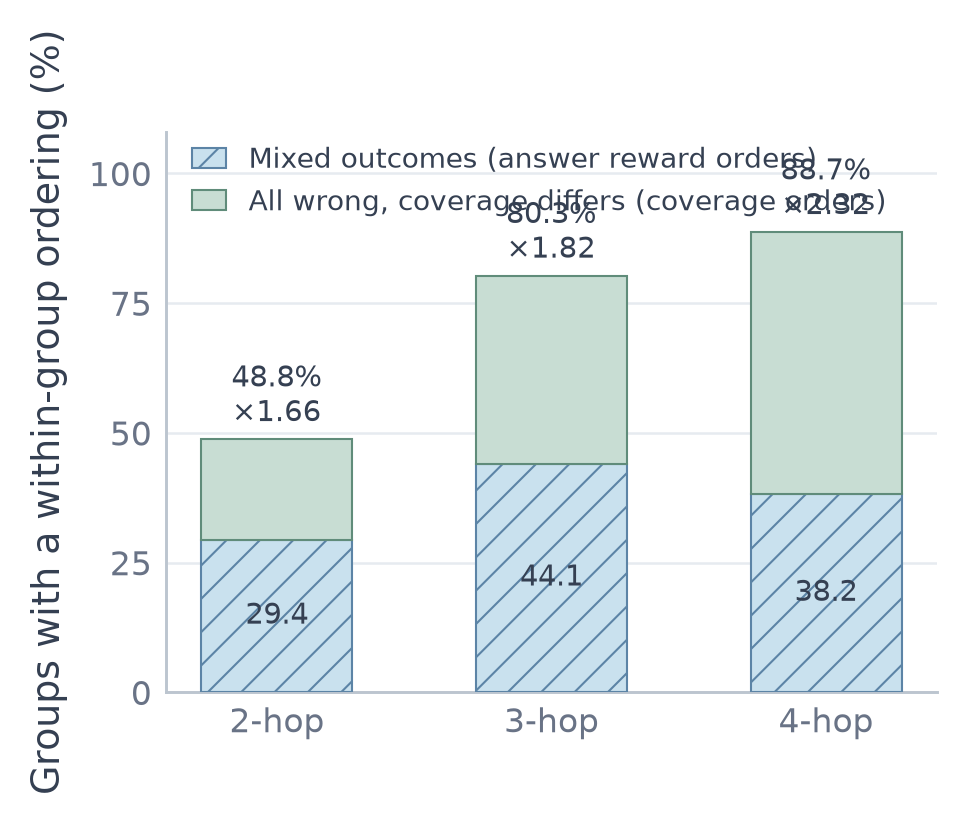
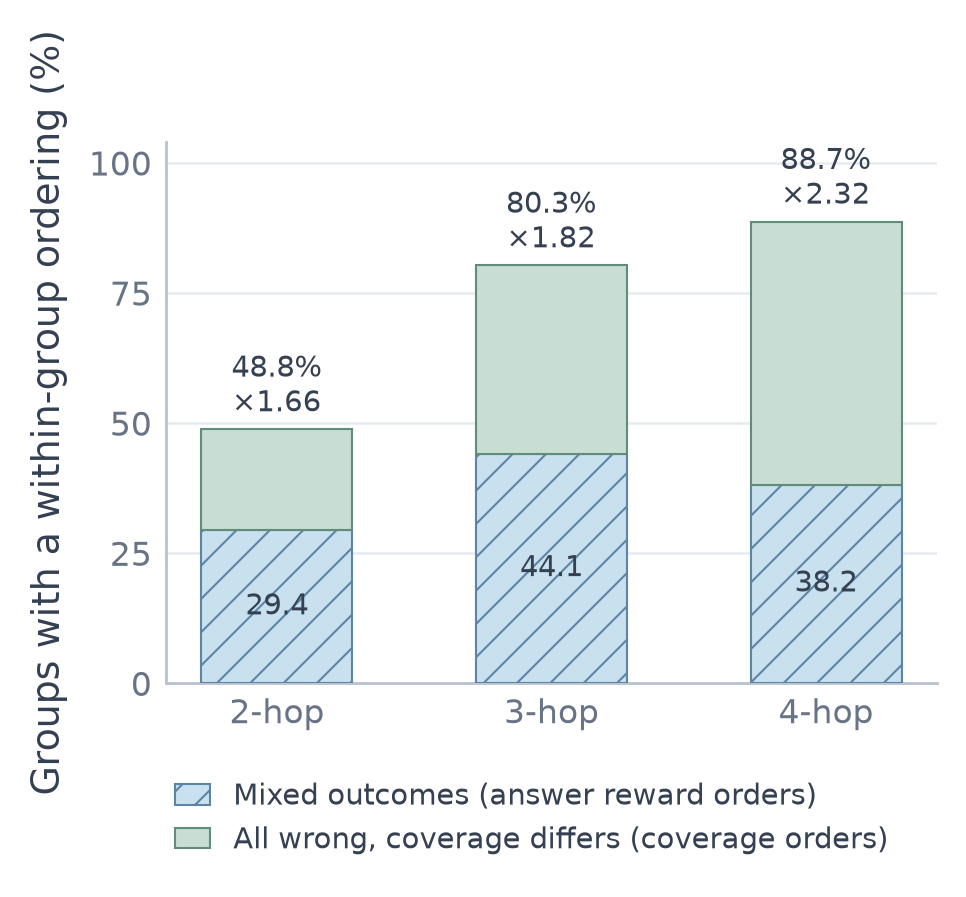
paper: fig_repair legend below the axes

diff --git a/paper_assets/fig_repair.py b/paper_assets/fig_repair.py
@@ -17,7 +17,7 @@ total = [48.8, 80.3, 88.7]
 expansion = [1.66, 1.82, 2.32]
 tied_var = [31.0, 70.4, 84.3]              # tied groups with coverage variation (text)
 
-fig, ax = plt.subplots(figsize=(3.3, 2.3))
+fig, ax = plt.subplots(figsize=(3.3, 2.6))
 x = np.arange(len(hops)); w = 0.55
 ax.bar(x, outcome_only, w, color=PAL["base"], edgecolor=LINE["base"], linewidth=0.5, hatch="///", label="Mixed outcomes (answer reward orders)", zorder=3)
 ax.bar(x, added, w, bottom=outcome_only, color=PAL["evidence"], edgecolor=LINE["evidence"], linewidth=0.5, label="All wrong, coverage differs (coverage orders)", zorder=3)
@@ -26,9 +26,10 @@ for xi, o, t, e in zip(x, outcome_only, total, expansion):
     ax.text(xi, o / 2, f"{o:.1f}", ha="center", va="center", fontsize=7, color=TEXT)
 ax.set_xticks(x); ax.set_xticklabels(hops)
 ax.set_ylabel("Groups with a within-group ordering (%)")
-ax.set_ylim(0, 108); ax.set_yticks([0, 25, 50, 75, 100])
-ax.legend(frameon=False, loc="upper left", fontsize=6.8, handlelength=1.2, bbox_to_anchor=(0, 1.02))
-fig.tight_layout()
+ax.set_ylim(0, 104); ax.set_yticks([0, 25, 50, 75, 100])
+handles, labels = ax.get_legend_handles_labels()
+fig.legend(handles, labels, frameon=False, loc="lower center", ncol=1, fontsize=7, handlelength=1.2, bbox_to_anchor=(0.55, 0))
+fig.tight_layout(rect=(0, 0.14, 1, 1))
 for ext in ("pdf", "png"):
     fig.savefig(f"{OUT}/fig_repair.{ext}")
 print("saved fig_repair")
